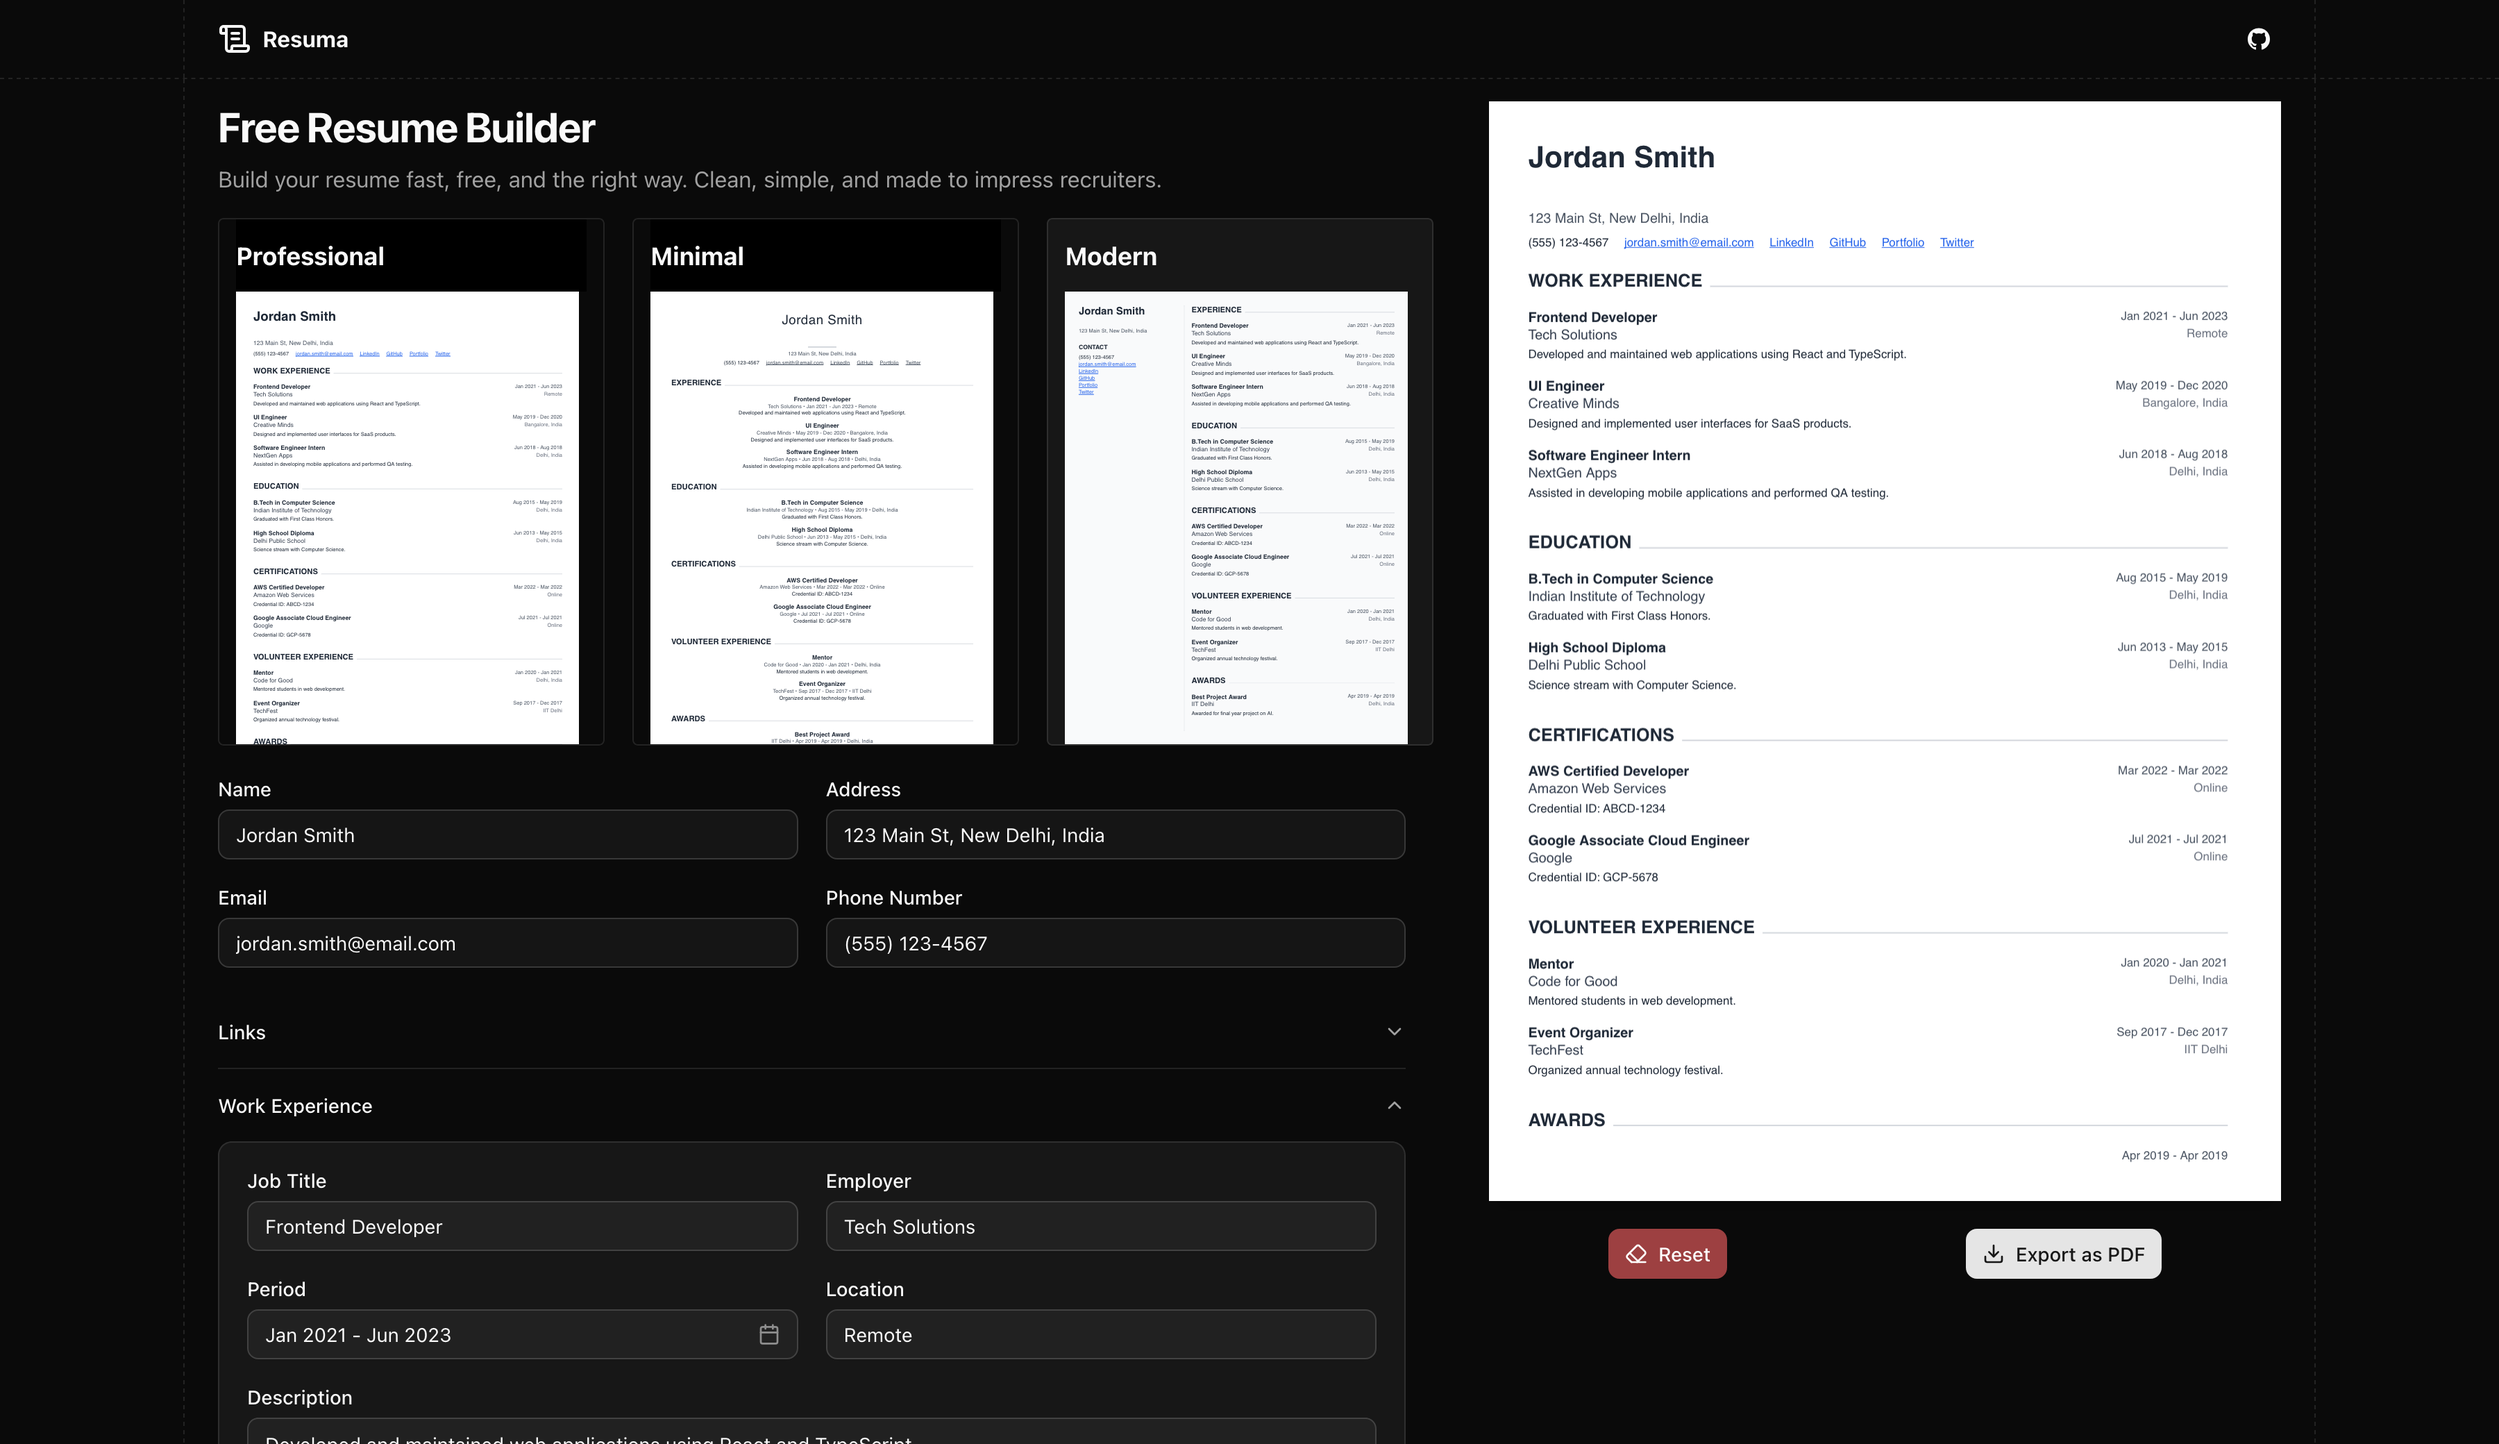
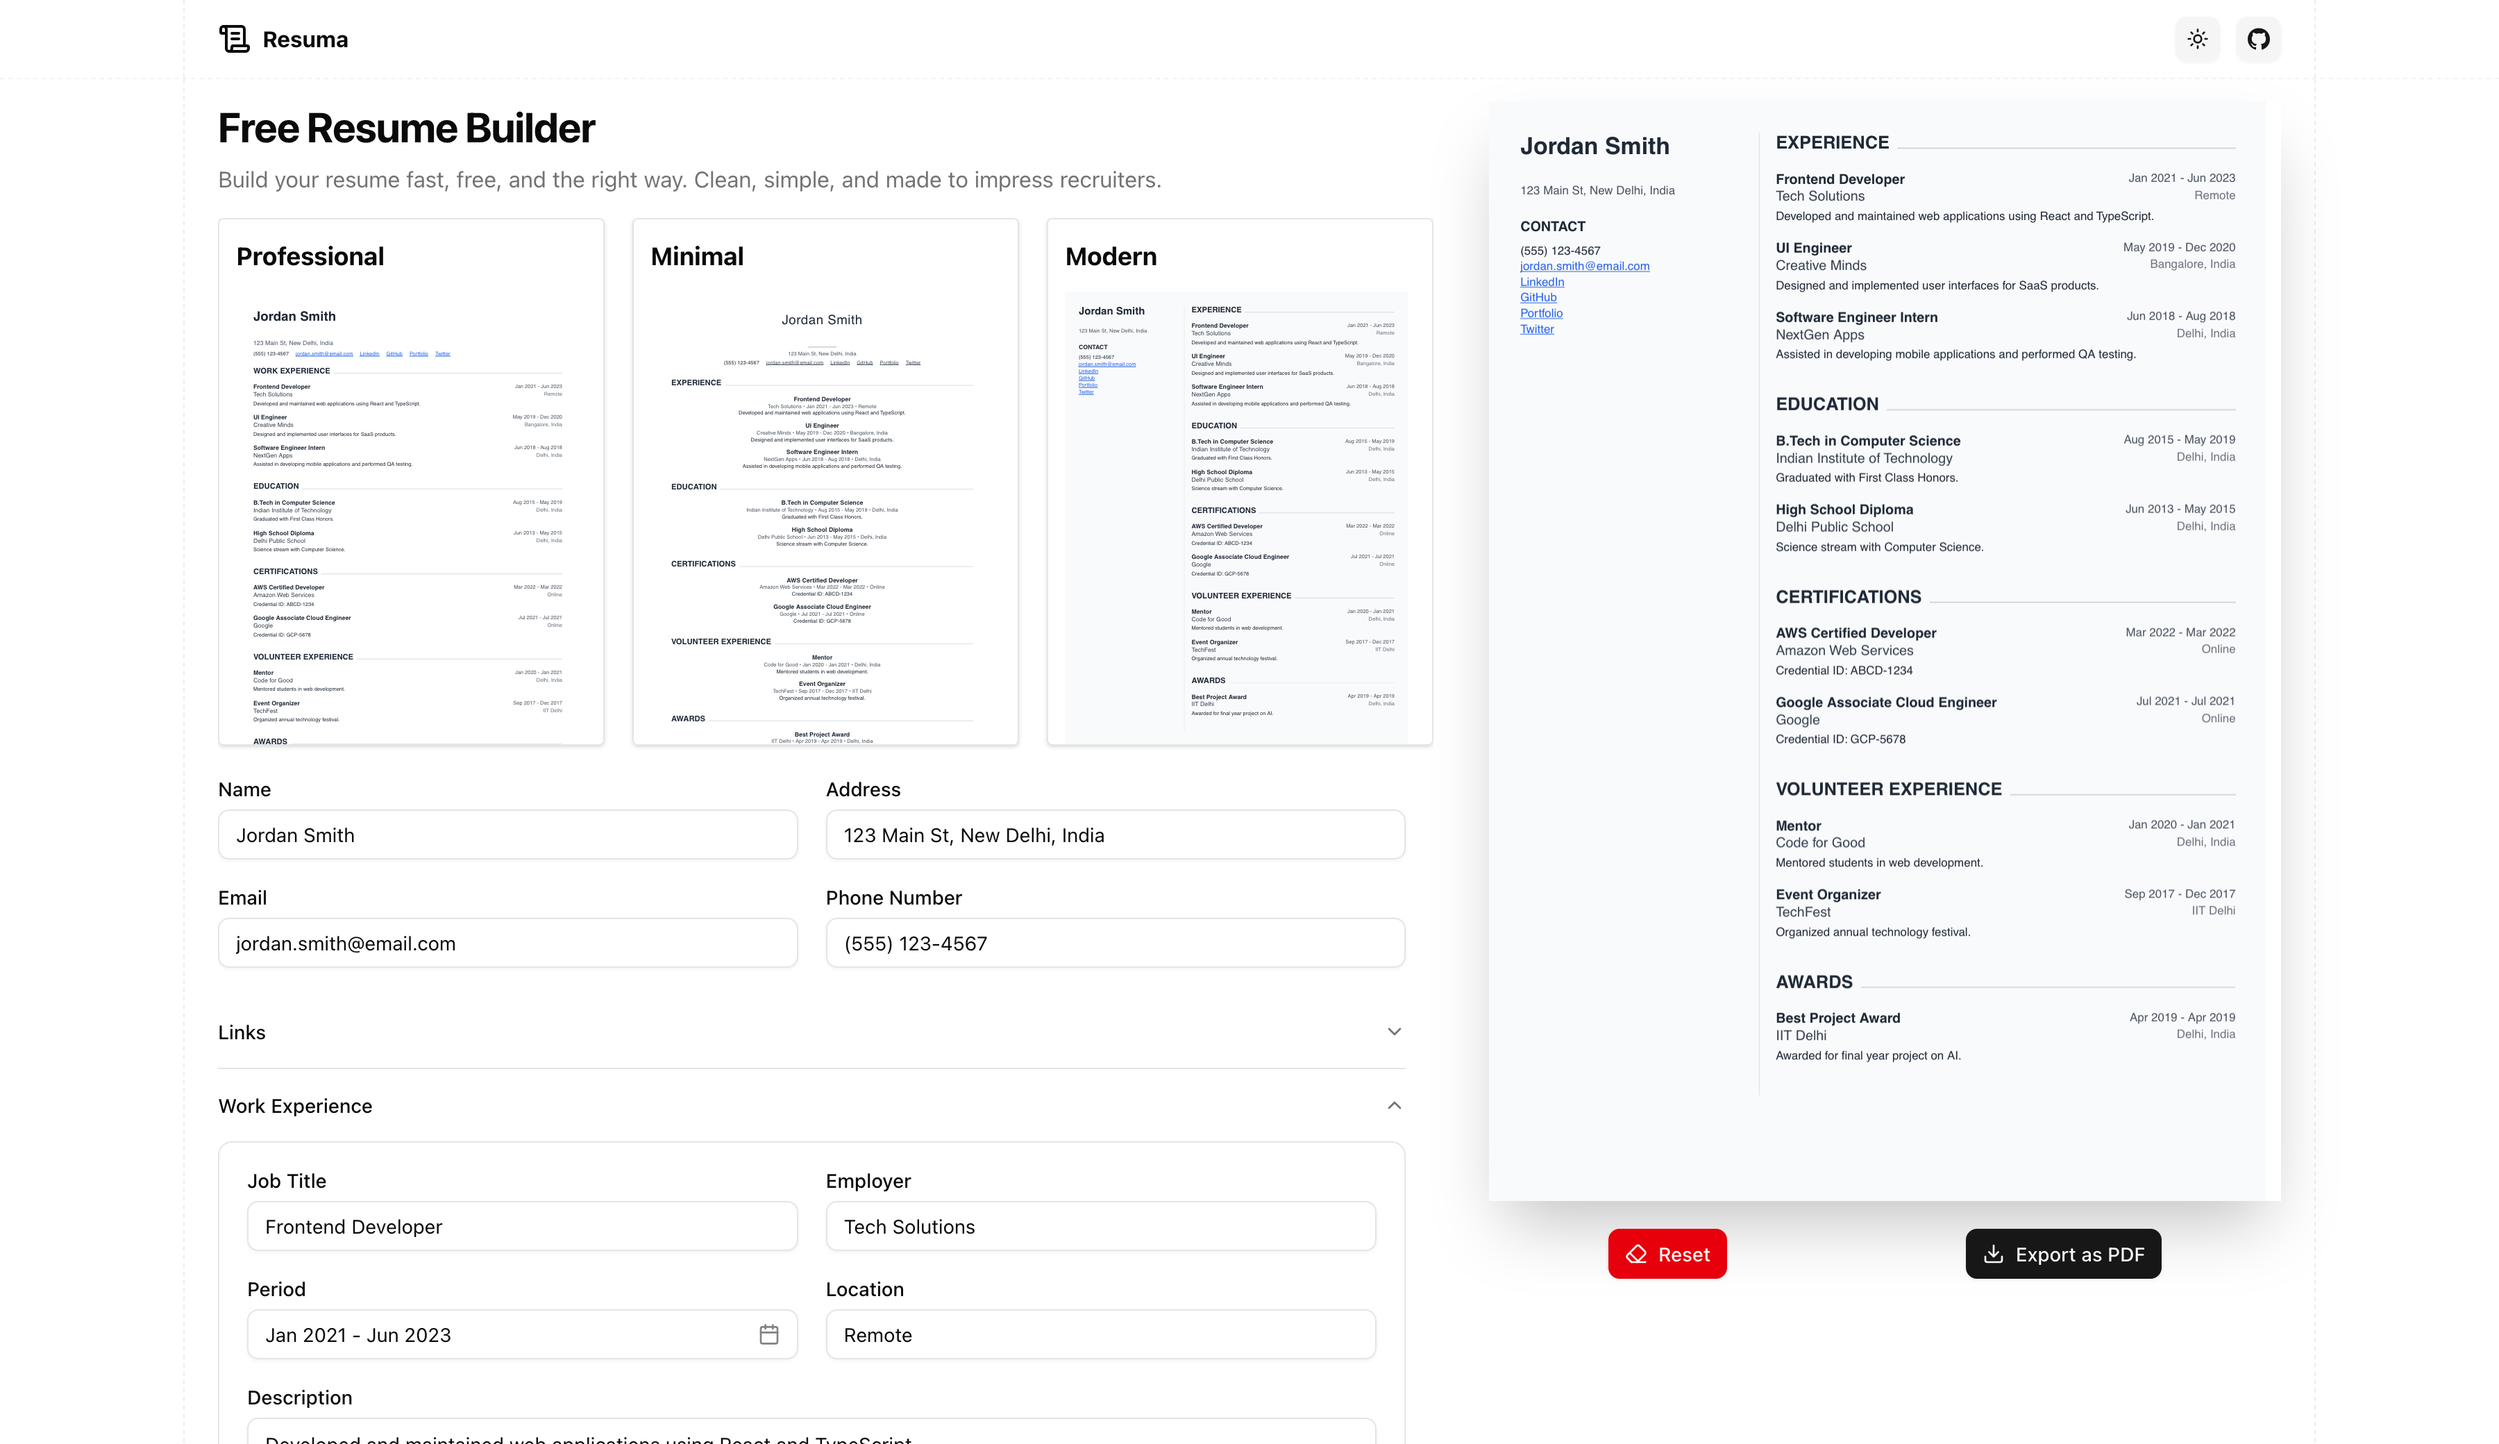
chore: update images, add theme switcher

diff --git a/src/components/main-header.tsx b/src/components/main-header.tsx
@@ -1,9 +1,18 @@
 import { Link } from "@tanstack/react-router";
-import { LucideScrollText } from "lucide-react";
+import { LucideScrollText, LucideSun } from "lucide-react";
 import { Button } from "./ui/button";
 import { Icons } from "./icons";
 
 const MainHeader = () => {
+  const handleThemeToggle = () => {
+    const body = document.body;
+    if (body.classList.contains("dark")) {
+      body.classList.remove("dark");
+    } else {
+      body.classList.add("dark");
+    }
+  };
+
   return (
     <header className="border-grid sticky top-0 z-50 w-full border-b bg-background/95 backdrop-blur supports-[backdrop-filter]:bg-background/60">
       <div className="container-wrapper">
@@ -14,17 +23,33 @@ const MainHeader = () => {
               <span className="hidden font-bold lg:inline-block">Resuma</span>
             </Link>
           </div>
-
-          <Button asChild variant="ghost" size="icon" className="h-8 w-8 px-0">
-            <a
-              href="https://github.com/ksamirdev/resuma"
-              target="_blank"
-              rel="noreferrer"
+          <div className="flex flex-row items-center gap-3">
+            <Button
+              onClick={handleThemeToggle}
+              variant="secondary"
+              size="icon"
+              className="h-8 w-8 px-0"
             >
-              <Icons.gitHub className="h-4 w-4" />
-              <span className="sr-only">GitHub</span>
-            </a>
-          </Button>
+              <LucideSun />
+              <span className="sr-only">Toggle theme</span>
+            </Button>
+
+            <Button
+              asChild
+              variant="secondary"
+              size="icon"
+              className="h-8 w-8 px-0"
+            >
+              <a
+                href="https://github.com/ksamirdev/resuma"
+                target="_blank"
+                rel="noreferrer"
+              >
+                <Icons.gitHub className="h-4 w-4" />
+                <span className="sr-only">GitHub</span>
+              </a>
+            </Button>
+          </div>
         </div>
       </div>
     </header>

diff --git a/src/components/resume/preview.tsx b/src/components/resume/preview.tsx
@@ -66,7 +66,7 @@ export const ResumePreview = () => {
         onLoadError={(error) => {
           console.error("[ERROR]: Error loading PDF:", error);
         }}
-        className="shadow-lg "
+        className="shadow-xl"
       >
         <Page
           pageNumber={1}
@@ -85,10 +85,28 @@ export const ResumePreview = () => {
           <LucideEraser />
           Reset
         </Button>
-        <Button className="self-end" asChild disabled={!pdfUrl}>
-          <a href={pdfUrl ?? "#"} download="resume.pdf">
-            <LucideDownload /> Export as PDF
-          </a>
+        <Button
+          disabled={!pdfUrl}
+          onClick={async (e) => {
+            if (!pdfUrl) return;
+            e.preventDefault();
+            const shouldContinue = window.confirm(
+              "If you like this project, please consider starring it on GitHub!\n\nWould you like to continue downloading your resume?"
+            );
+            if (shouldContinue) {
+              // Trigger download
+              const link = document.createElement("a");
+              link.href = pdfUrl;
+              link.download = "resume.pdf";
+              document.body.appendChild(link);
+              link.click();
+              document.body.removeChild(link);
+
+              window.open("https://github.com/ksamirdev/resuma", "_blank");
+            }
+          }}
+        >
+          <LucideDownload /> Export as PDF
         </Button>
       </div>
     </div>

diff --git a/index.html b/index.html
@@ -10,13 +10,13 @@
     <meta name="description" content="Resuma is a free, easy-to-use resume builder to help you create professional resumes quickly." />
     <meta property="og:title" content="Resuma | Free Resume Builder" />
     <meta property="og:description" content="Create professional resumes for free with Resuma." />
-    <meta property="og:image" content="https://ksamirdev.github.io/resuma/preview.png" />
+    <meta property="og:image" content="https://ksamirdev.github.io/resuma/resuma.png" />
     <meta property="og:type" content="website" />
     <meta property="og:url" content="https://ksamirdev.github.io/resuma/" />
     <meta name="twitter:card" content="summary_large_image" />
     <meta name="twitter:title" content="Resuma | Free Resume Builder" />
     <meta name="twitter:description" content="Create professional resumes for free with Resuma." />
-    <meta name="twitter:image" content="https://ksamirdev.github.io/resuma/preview.png" />
+    <meta name="twitter:image" content="https://ksamirdev.github.io/resuma/resuma.png" />
   </head>
   <body class="antialiased border-grid min-h-svh bg-background border-grid flex flex-1 flex-col dark">
     <div id="root"></div>

diff --git a/src/routes/index.tsx b/src/routes/index.tsx
@@ -223,7 +223,7 @@ const RenderSampleTemplate = ({
 
       <span
         className={cn(
-          "text-lg font-bold sticky top-0 z-50 bg-black w-full group-hover:bg-card py-3",
+          "text-lg font-bold sticky top-0 z-50  w-full group-hover:bg-card py-3",
           template === form.getValues().template && "bg-card"
         )}
       >
